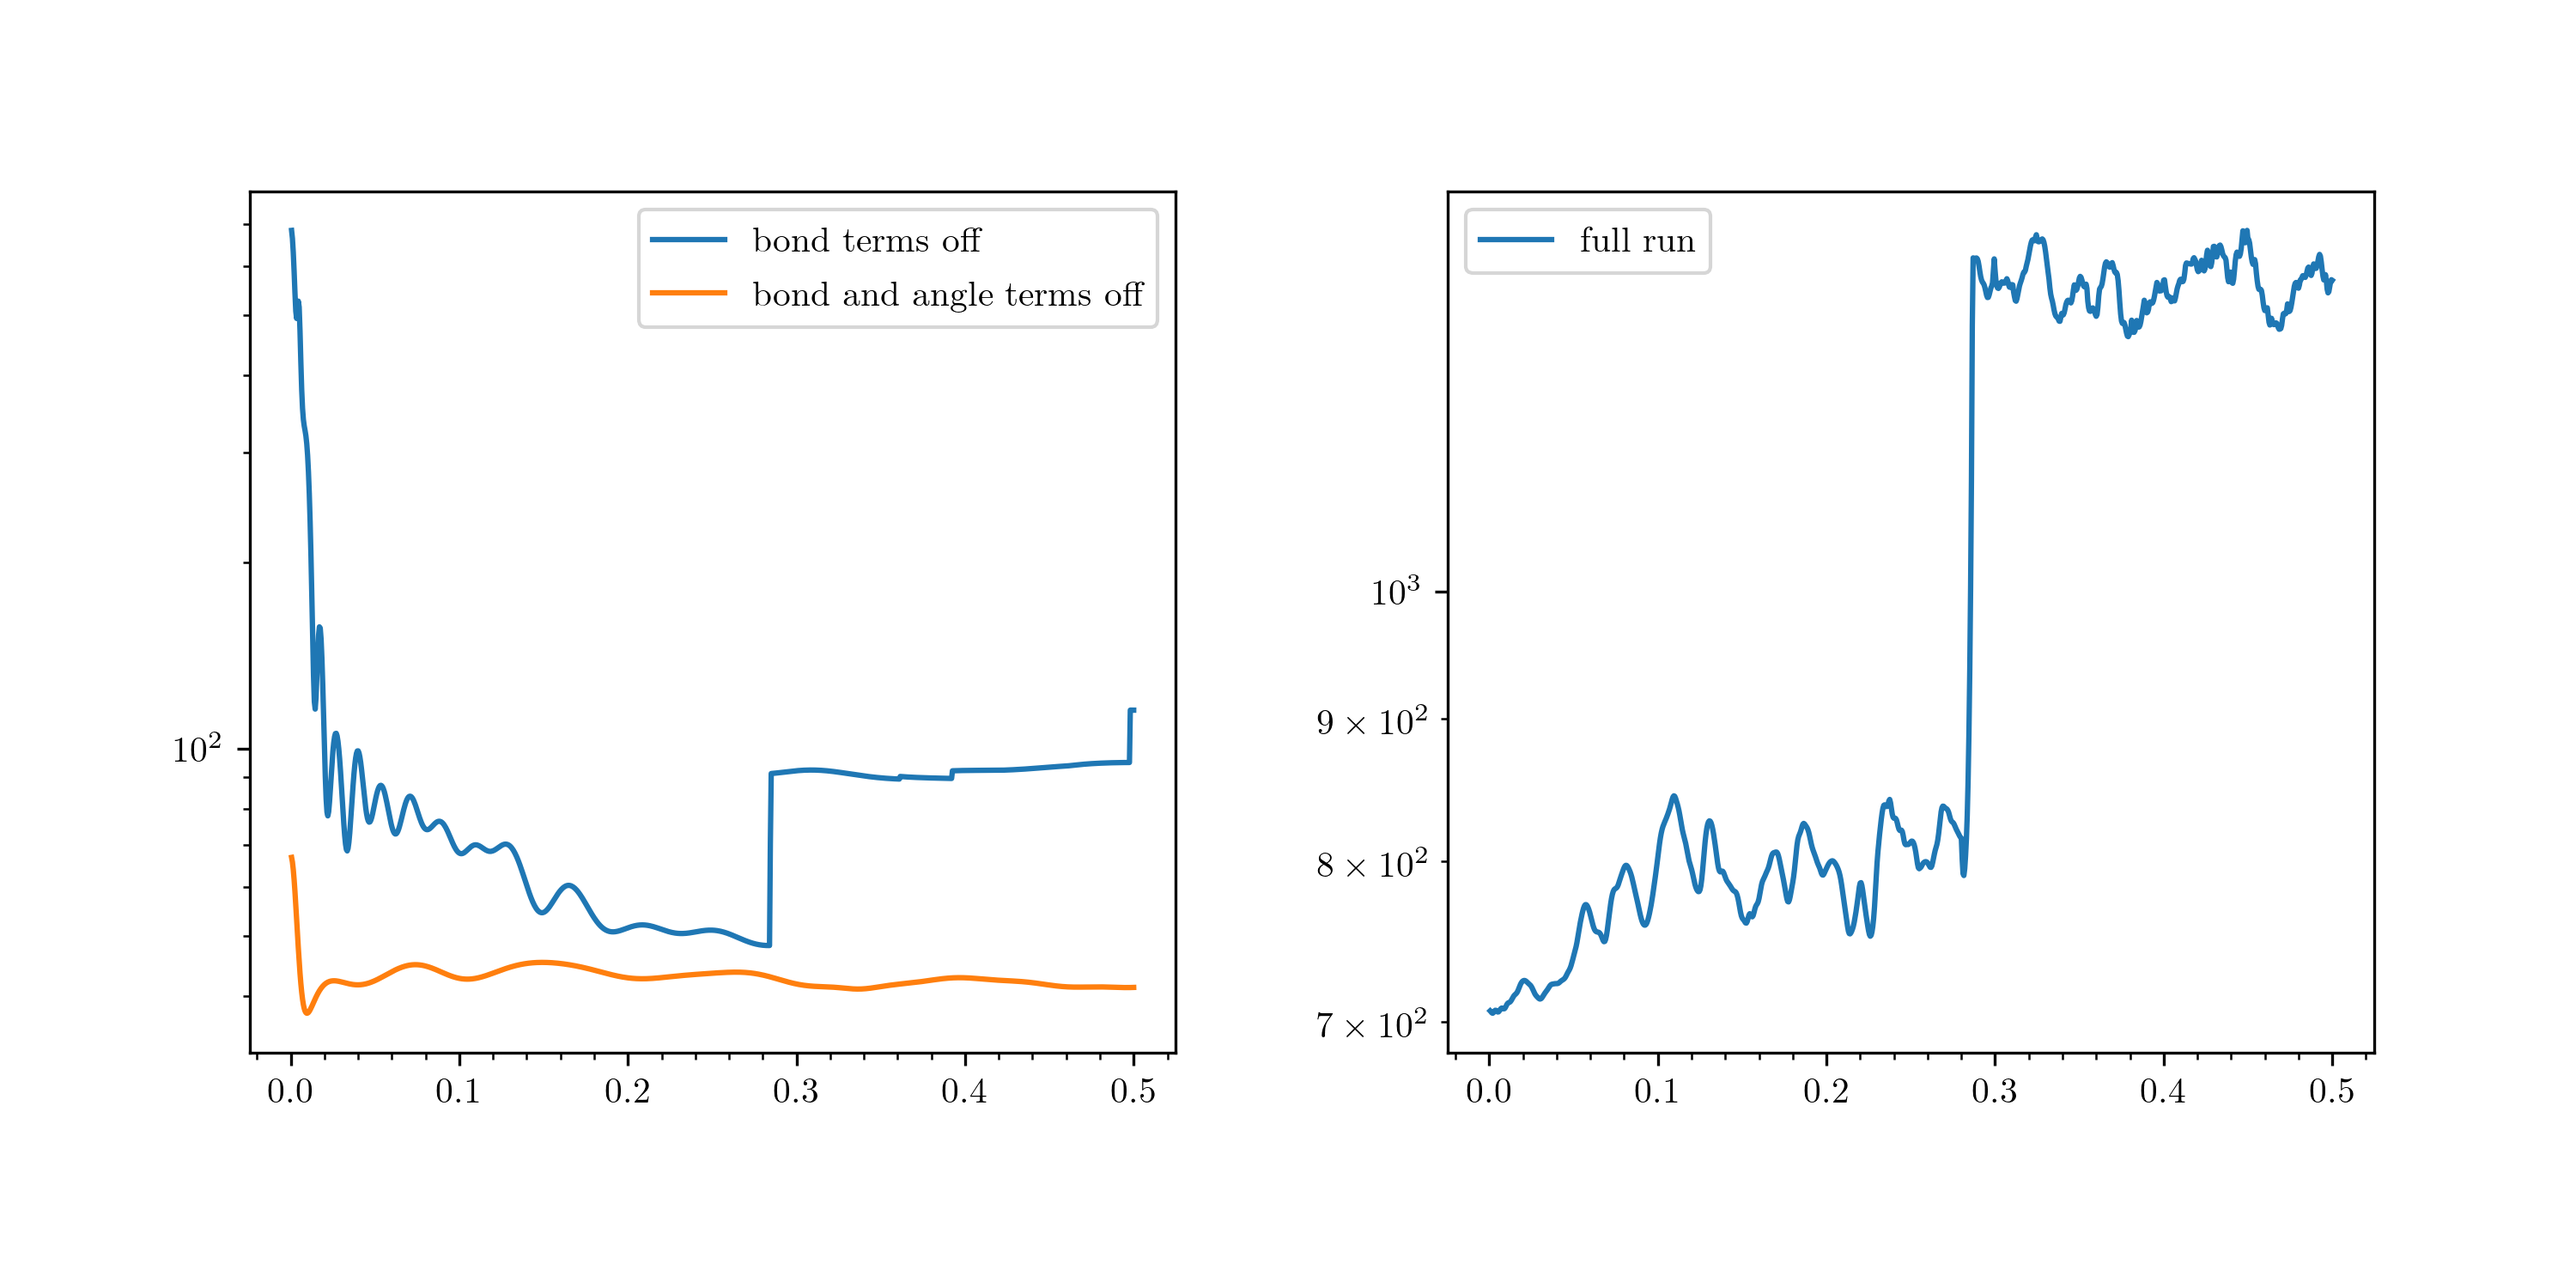
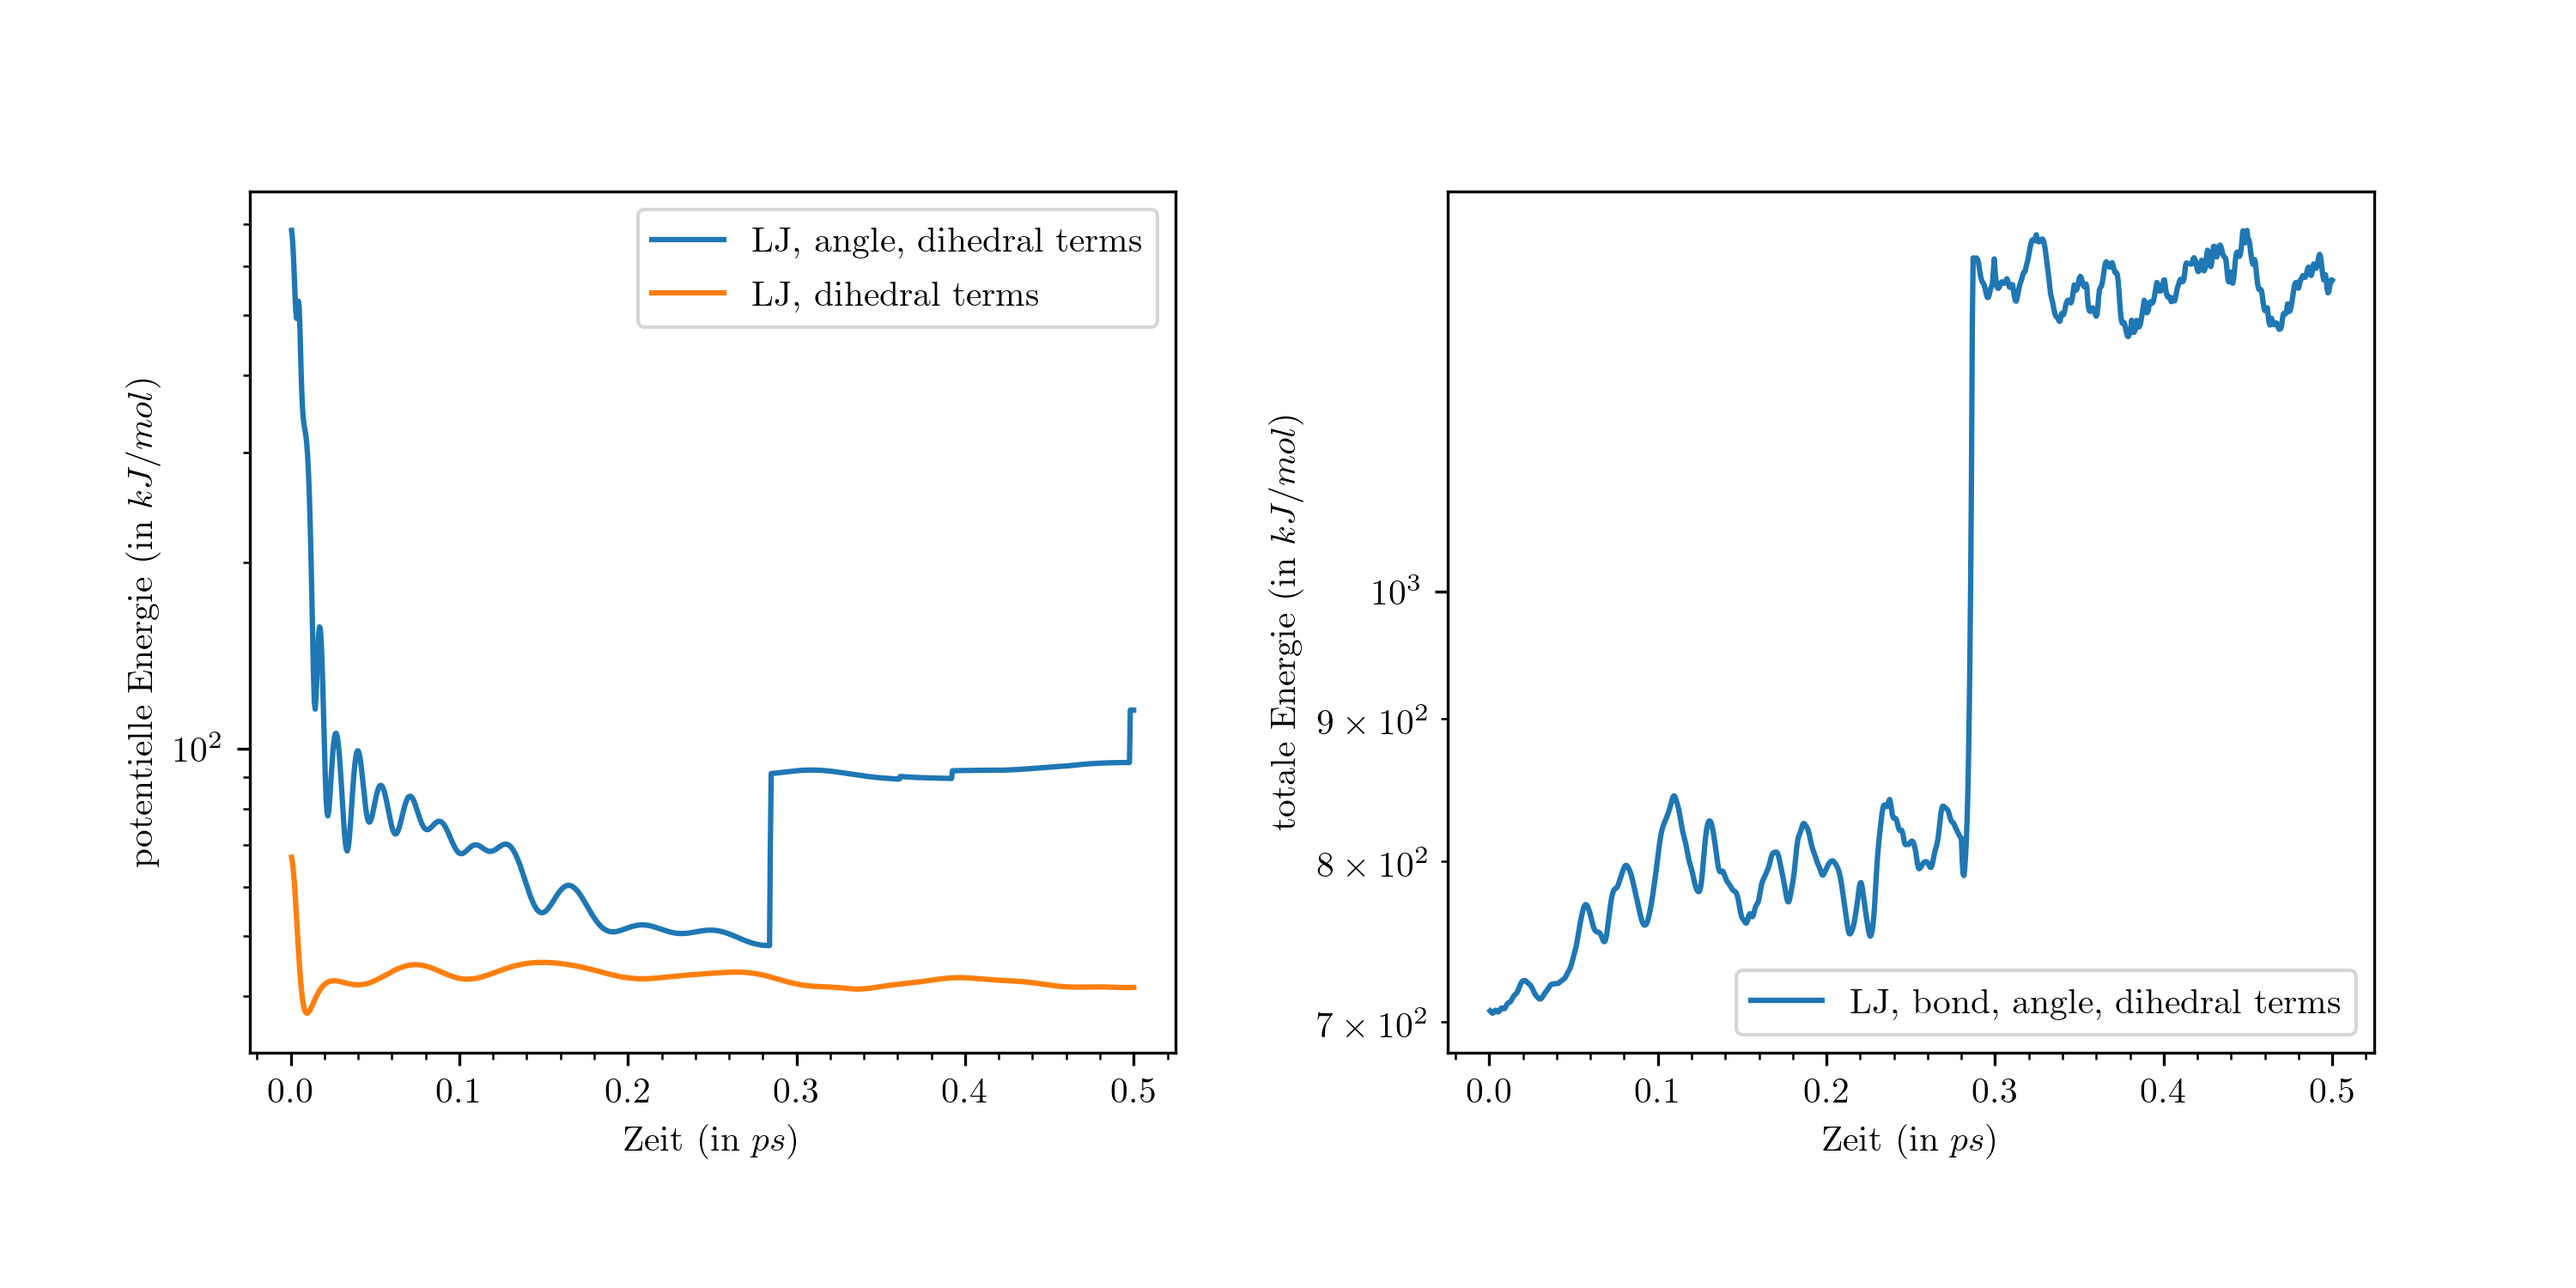
fixed bug in code and improved plots

diff --git a/mdatom/source_code/lib/ChainInteractionCalculator.cpp b/mdatom/source_code/lib/ChainInteractionCalculator.cpp
@@ -138,19 +138,42 @@ void ChainInteractionCalculator::calculateDihedral (int i, int j, int k, int l, 
   // Calculations taken from
   // https://math.stackexchange.com/questions/47059/how-do-i-calculate-a-dihedral-angle-given-cartesian-coordinates
   std::vector<double> b1;
-  b1.push_back(pos[3*j  ] - pos[3*i  ]);
-  b1.push_back(pos[3*j+1] - pos[3*i+1]);
-  b1.push_back(pos[3*j+2] - pos[3*i+2]);
+  // b1.push_back(pos[3*j  ] - pos[3*i  ]);
+  // b1.push_back(pos[3*j+1] - pos[3*i+1]);
+  // b1.push_back(pos[3*j+2] - pos[3*i+2]);
+  b1 = connect(i, j, pos);
 
   std::vector<double> b2;
-  b2.push_back(pos[3*k  ] - pos[3*j  ]);
-  b2.push_back(pos[3*k+1] - pos[3*j+1]);
-  b2.push_back(pos[3*k+2] - pos[3*j+2]);
+  // b2.push_back(pos[3*k  ] - pos[3*j  ]);
+  // b2.push_back(pos[3*k+1] - pos[3*j+1]);
+  // b2.push_back(pos[3*k+2] - pos[3*j+2]);
+  b2 = connect(j, k, pos);
 
   std::vector<double> b3;
-  b3.push_back(pos[3*l  ] - pos[3*k  ]);
-  b3.push_back(pos[3*l+1] - pos[3*k+1]);
-  b3.push_back(pos[3*l+2] - pos[3*k+2]);
+  // b3.push_back(pos[3*l  ] - pos[3*k  ]);
+  // b3.push_back(pos[3*l+1] - pos[3*k+1]);
+  // b3.push_back(pos[3*l+2] - pos[3*k+2]);
+  b3 = connect(k, l, pos);
+
+  /*
+  for (int i = 0; i < 3; i++) {
+    std::cout << b1[i] << " ";
+  }
+
+  std::cout << std::endl;
+
+  for (int i = 0; i < 3; i++) {
+    std::cout << b2[i] << " ";
+  }
+
+  std::cout << std::endl;
+
+  for (int i = 0; i < 3; i++) {
+    std::cout << b3[i] << " ";
+  }
+
+  std::cout << std::endl;
+  */
 
   std::vector<double> n1 = cross(b1, b2);
   std::vector<double> n2 = cross(b2, b3);
@@ -168,9 +191,9 @@ void ChainInteractionCalculator::calculate (std::vector<double>& positions, cons
     initializeValues();
 
     if (par.chainMdType == ChainSimType::complete) {
-        // calculateA(positions, bonds, forces);
+        calculateA(positions, bonds, forces);
         calculateD(positions, bonds, forces);
-        // calculateB(positions, bonds, forces);
+        calculateB(positions, bonds, forces);
     } else if (par.chainMdType == ChainSimType::noAngles) {
         calculateD(positions, bonds, forces);
         calculateB(positions, bonds, forces);
@@ -326,10 +349,10 @@ void ChainInteractionCalculator::calculateForceAndVirialContributionsD(int i, in
     int l3 = 3 * l;
 
     for (int m = 0; m < 3; ++m){
-        forces[i3 + m] -= forcea[m];
-        forces[j3 + m] -= forceb[m];
-        forces[k3 + m] -= forcec[m];
-        forces[l3 + m] -= forced[m];
+        forces[i3 + m] += forcea[m];
+        forces[j3 + m] += forceb[m];
+        forces[k3 + m] += forcec[m];
+        forces[l3 + m] += forced[m];
     }///fehlt nocht virial
 }
 
@@ -401,8 +424,7 @@ void ChainInteractionCalculator::calculateInteractionB(int i, int j, const std::
             dij -= 2 * kb * (std::sqrt(rij2) - r0)/std::sqrt(rij2);
 
             //std::cout << "dij from bond  " << 2 * kb * (std::sqrt(rij2) - r0) << std::endl;
-
-            //std::cout << "bond contribution to energy:" << val1 << " dist to eq: " << (std::sqrt(rij2) - r0) << std::endl;
+            // std::cout << "bond contribution to energy:" << val1 << " dist to eq: " << (std::sqrt(rij2) - r0) << std::endl;
         }
 
         int i3 = 3 * i;
@@ -475,11 +497,21 @@ void ChainInteractionCalculator::applyPeriodicBoundaryConditions(int i, int j, i
     int j3 = 3 * j;
     int k3 = 3 * k;
     int l3 = 3 * l;
+    /*
     for (int m = 0; m < 3; ++m){
           xij[m] = positions[i3 + m] - positions[j3 +m];
           xjk[m] = positions[j3 + m] - positions[k3 + m];
           xkl[m] = positions[k3 + m] - positions[l3 + m];
     }
+    */
+
+    std::vector<double> xij_vec = connect(i, j, positions);
+    for (int i = 0; i < 3; i++) {
+      xij[i] = xij_vec[i];
+    }
+
+    xjk = connect(j, k, positions);
+    xkl = connect(k, l, positions);
 }
 
 void ChainInteractionCalculator::calculateSquaredDistance(){

diff --git a/6_9_2_plot/plot.py b/6_9_2_plot/plot.py
@@ -16,19 +16,22 @@ def main():
 
     ax1.set_yscale('log')
     ax1.minorticks_on()
+    ax1.set(xlabel="Zeit (in $ ps $)")
+    ax1.set(ylabel="potentielle Energie (in $ kJ / mol $)")
 
     ax2.set_yscale('log')
     ax2.minorticks_on()
+    ax2.set(xlabel="Zeit (in $ ps $)")
+    ax2.set(ylabel="totale Energie (in $ kJ / mol $)")
 
-    ax2.plot(data_fullrun[:, 1], data_fullrun[:, 2], label='full run')
+    ax2.plot(data_fullrun[:, 1], data_fullrun[:, 2], label='LJ, bond, angle, dihedral terms')
     ax2.legend()
 
-    ax1.plot(data_nobonds[:, 1], data_nobonds[:, 4], label='bond terms off')
-    ax1.plot(data_nobonds_noangles[:, 1], data_nobonds_noangles[:, 4], label='bond and angle terms off')
+    ax1.plot(data_nobonds[:, 1], data_nobonds[:, 4], label='LJ, angle, dihedral terms')
+    ax1.plot(data_nobonds_noangles[:, 1], data_nobonds_noangles[:, 4], label='LJ, dihedral terms')
     ax1.legend()
 
     plt.savefig('plot.png')
-    plt.show()
 
 if __name__ == "__main__":
   main()
